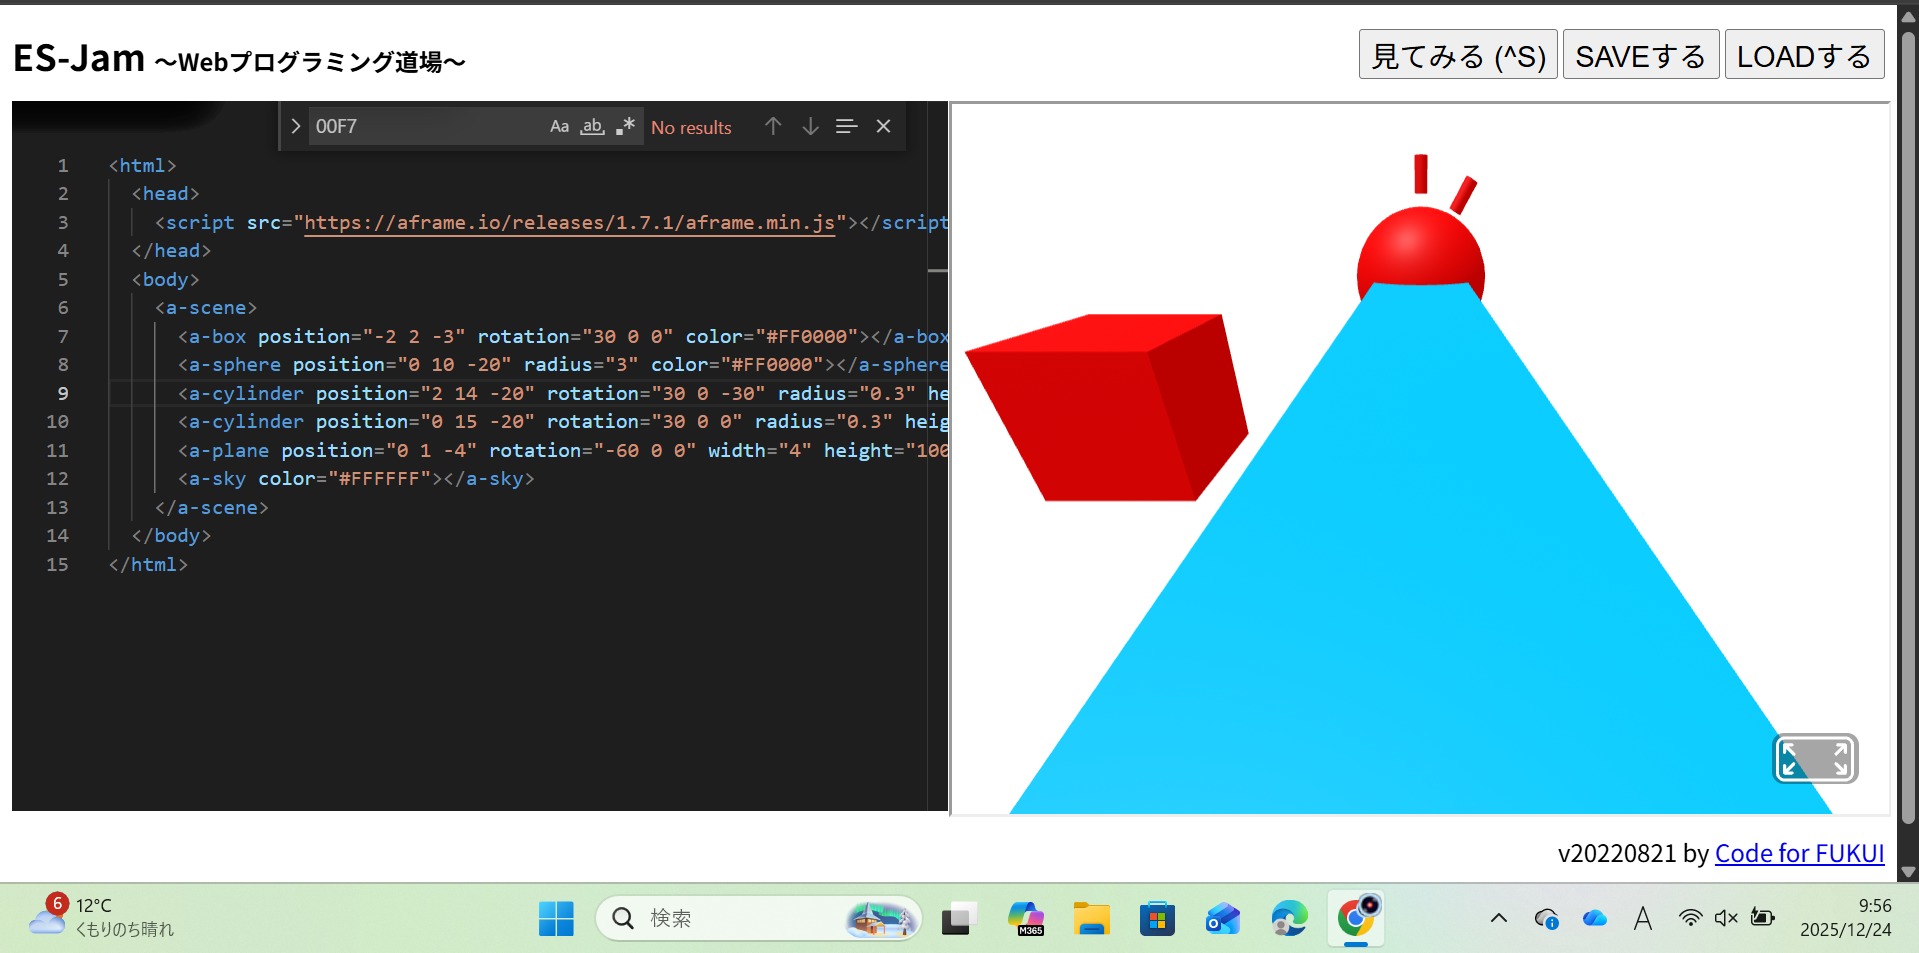
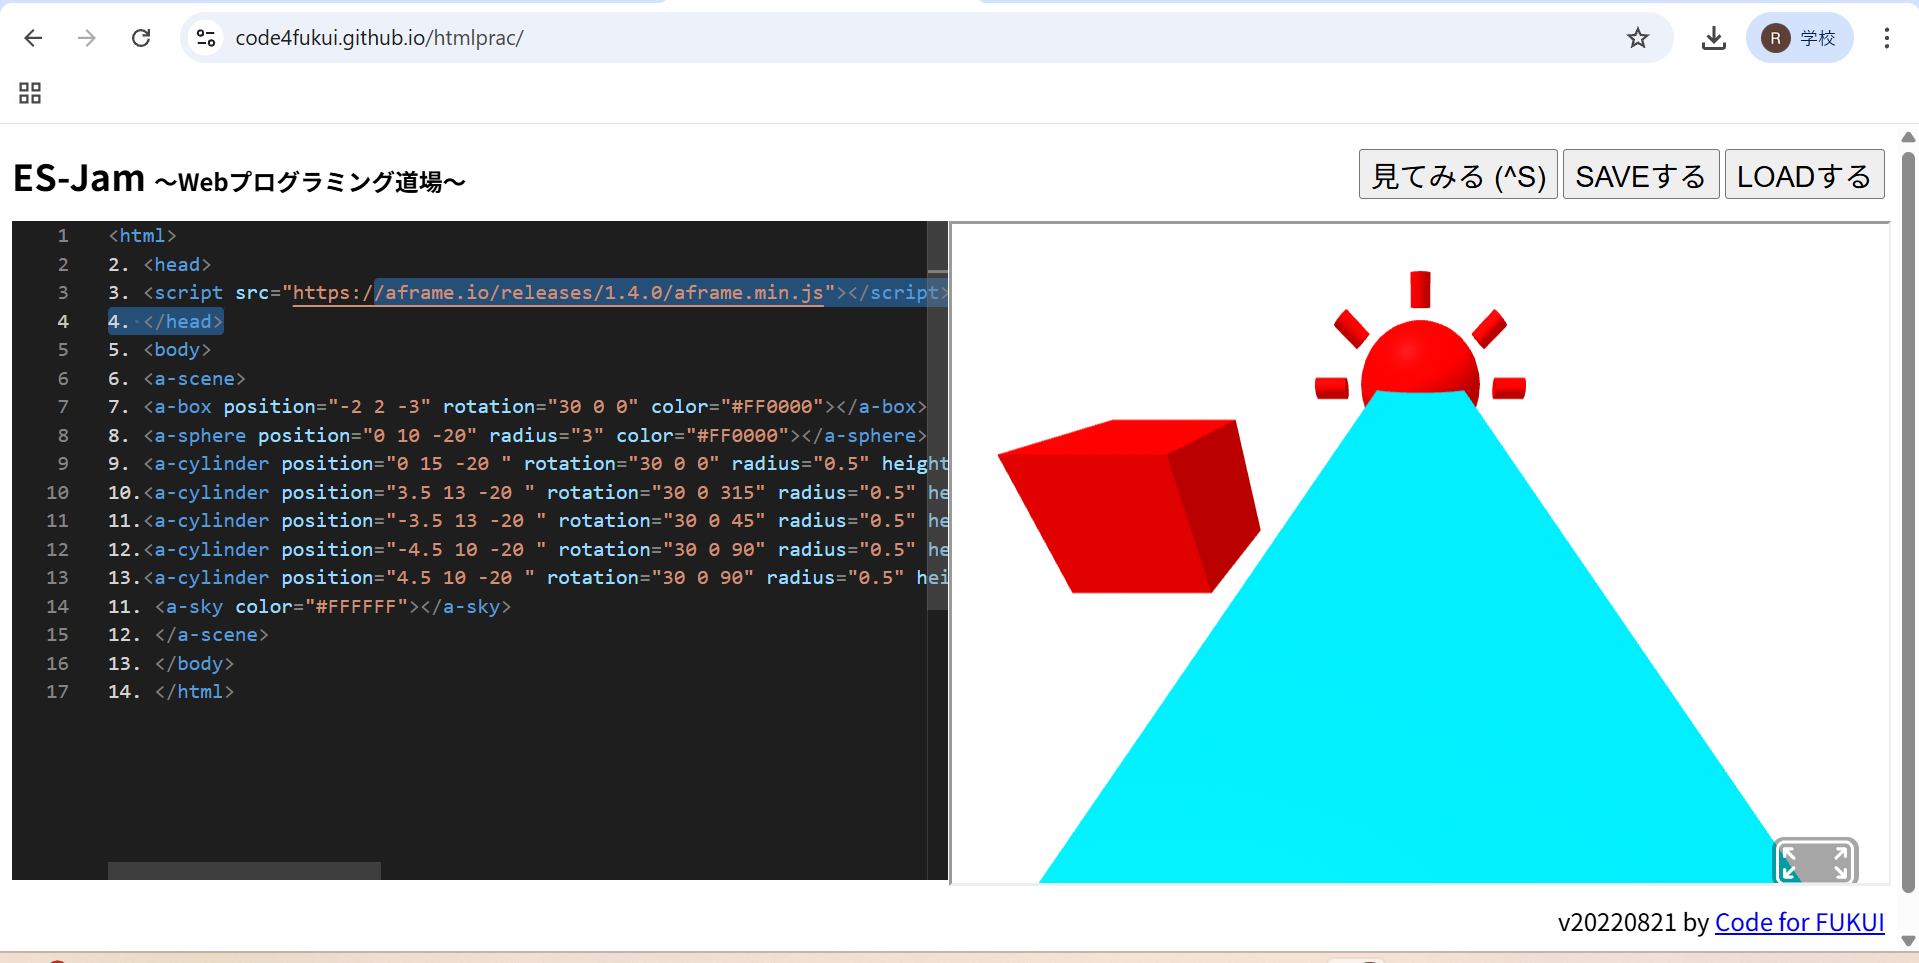
Add files via upload

diff --git a/vr.html b/vr.html
@@ -1,0 +1,17 @@
+<html>
+2. <head>
+3. <script src="https://aframe.io/releases/1.4.0/aframe.min.js"></script>
+4. </head>
+5. <body>
+6. <a-scene>
+7. <a-box position="-2 2 -3" rotation="30 0 0" color="#FF0000"></a-box>
+8. <a-sphere position="0 10 -20" radius="3" color="#FF0000"></a-sphere>
+9. <a-cylinder position="0 15 -20 " rotation="30 0 0" radius="0.5" height="1.5" color="#FF0000"></a-cylinder>
+10.<a-cylinder position="3.5 13 -20 " rotation="30 0 315" radius="0.5" height="1.5" color="#FF0000"></a-cylinder>
+11.<a-cylinder position="-3.5 13 -20 " rotation="30 0 45" radius="0.5" height="1.5" color="#FF0000"></a-cylinder>
+12.<a-cylinder position="-4.5 10 -20 " rotation="30 0 90" radius="0.5" height="1.5" color="#FF0000"></a-cylinder>
+13.<a-cylinder position="4.5 10 -20 " rotation="30 0 90" radius="0.5" height="1.5" color="#FF0000"></a-cylinder>10. <a-plane position="0 1 -4" rotation="-60 0 0" width="4" height="1000" color="#00BAFF"></a-plane>
+11. <a-sky color="#FFFFFF"></a-sky>
+12. </a-scene>
+13. </body>
+14. </html>
